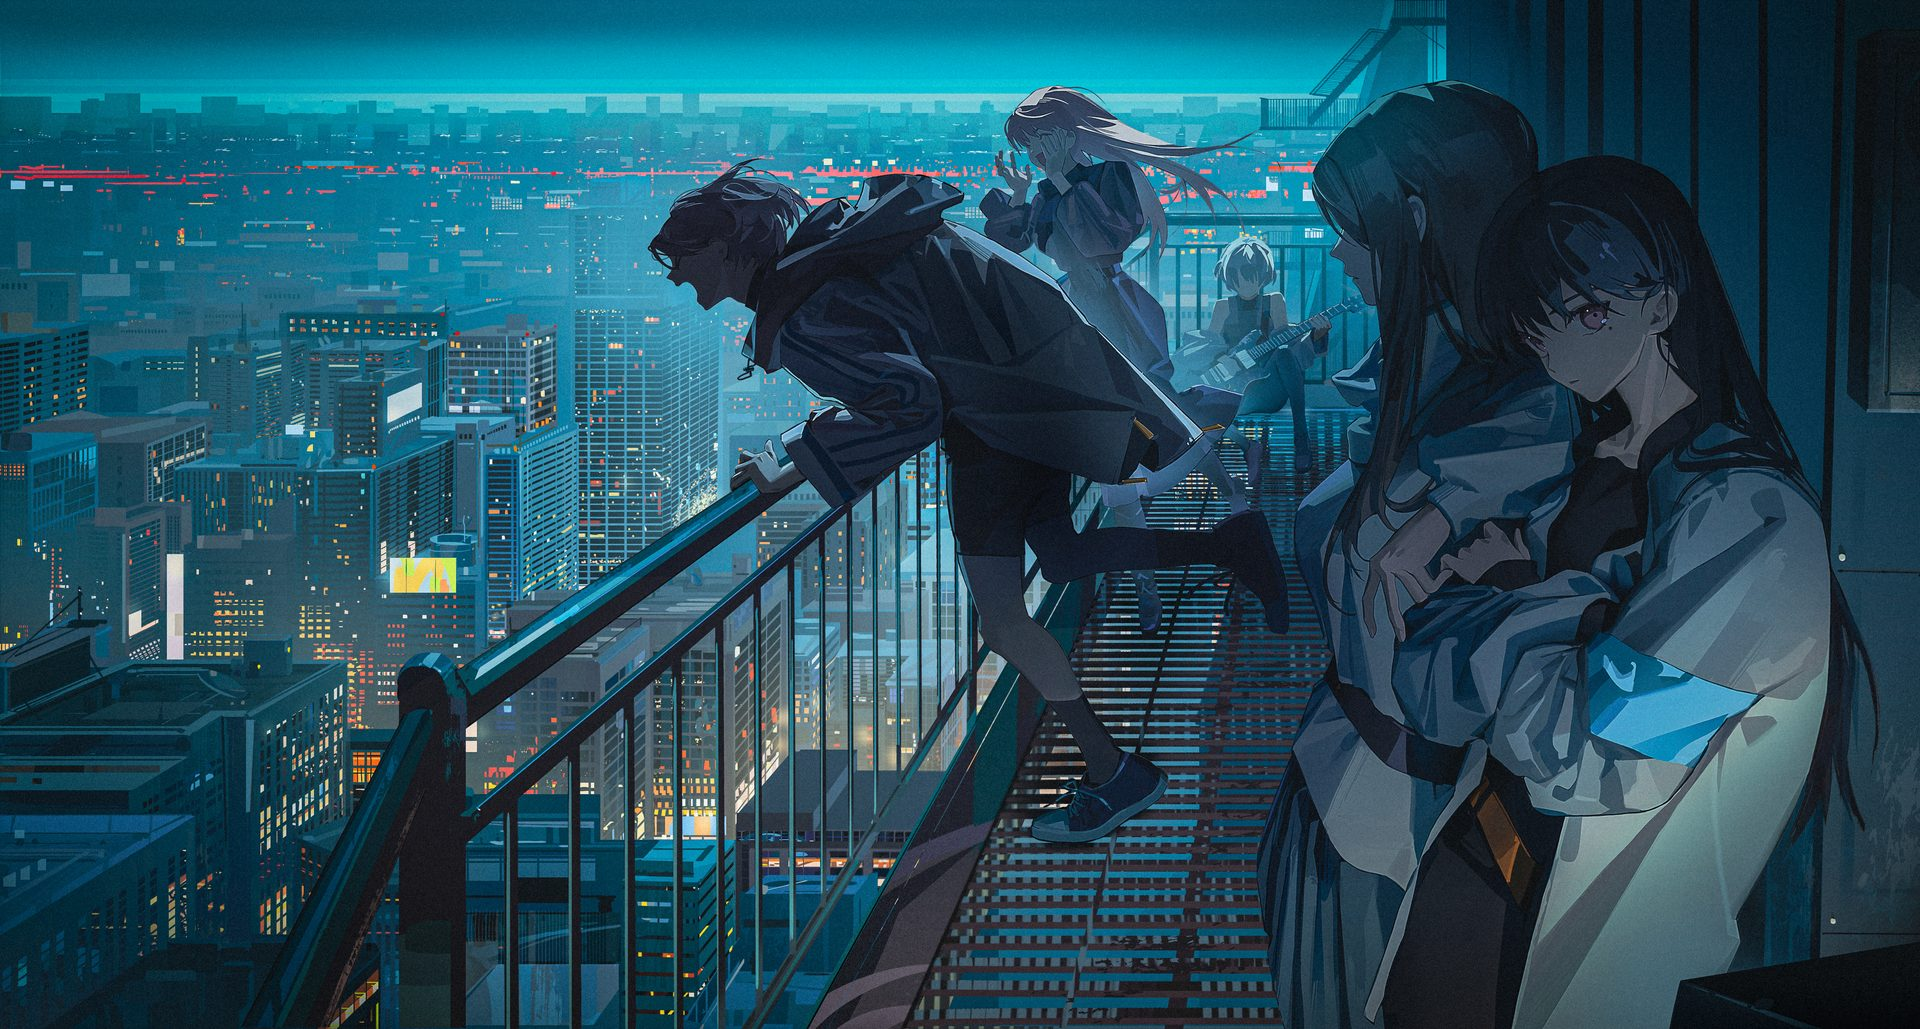
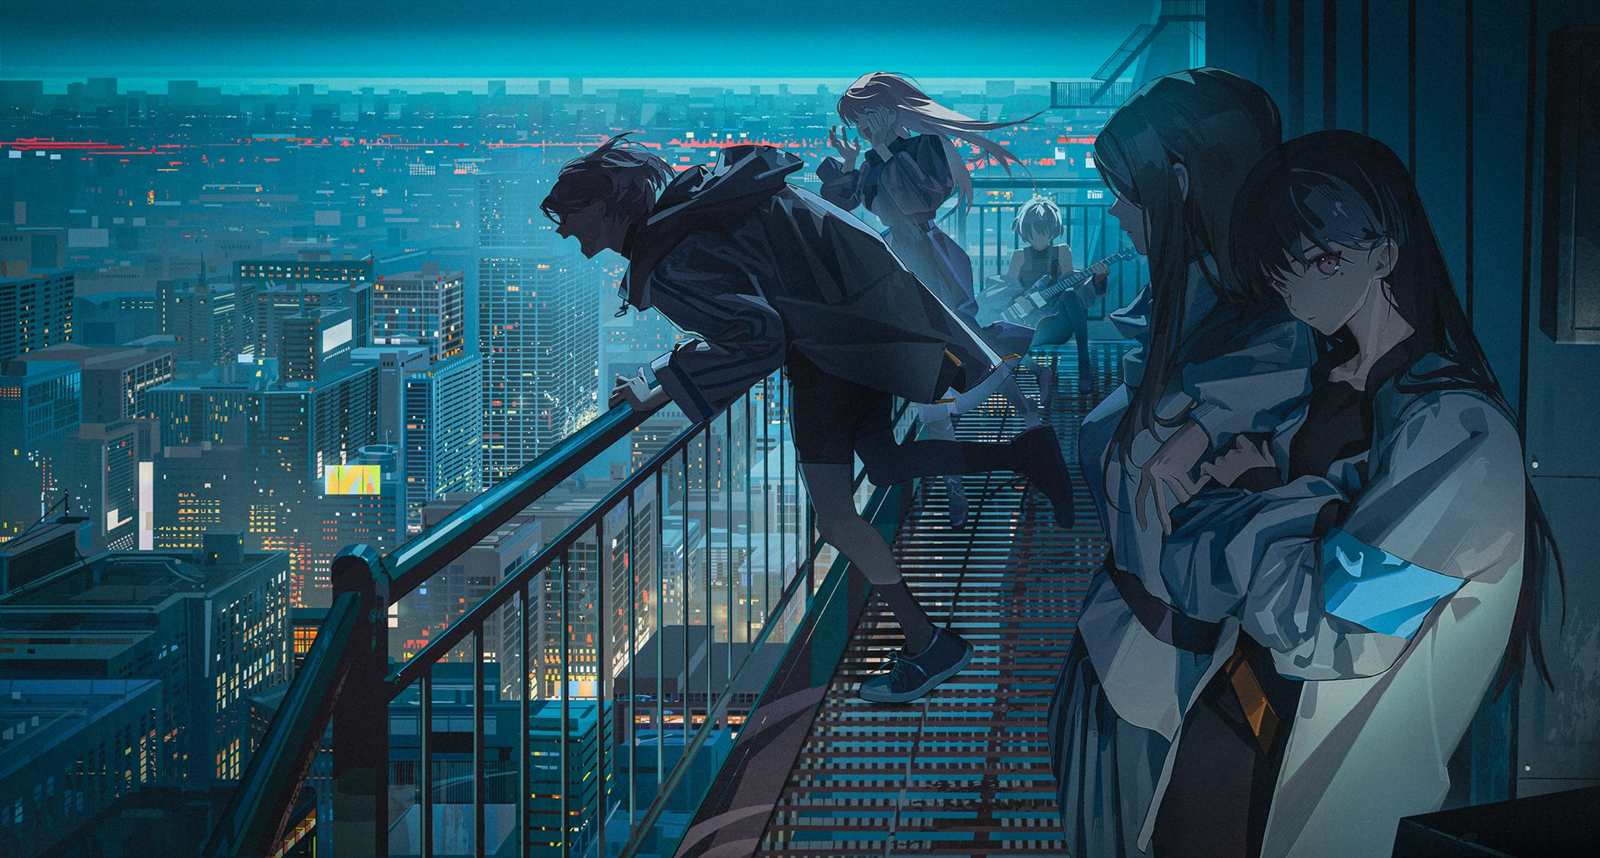
perf: compress images and fix preload links for faster loading
Compress background1.jpg 445KB->164KB, sidebar1.jpg 188KB->73KB, avatar.jpg 108KB->17KB, link.jpg 398KB->148KB. Remove unused images. Fix preload links pointing to deleted files.

diff --git a/_includes/head.html b/_includes/head.html
@@ -1,4 +1,4 @@
-<!-- The Head -->
+<!-- The Head -->
 
 <head>
   <meta http-equiv="Content-Type" content="text/html; charset=UTF-8">
@@ -13,8 +13,8 @@
   >
 
   <!-- Preload critical images for faster display -->
-  <link rel="preload" as="image" href="/assets/config/sidebar.jpg">
-  <link rel="preload" as="image" href="/assets/config/background.jpg">
+  <link rel="preload" as="image" href="/assets/config/background1.jpg">
+  <link rel="preload" as="image" href="/assets/config/sidebar1.jpg">
 
   {% if page.layout == 'home' or page.layout == 'post' %}
     {% if site.google_analytics.pv.proxy_endpoint %}
